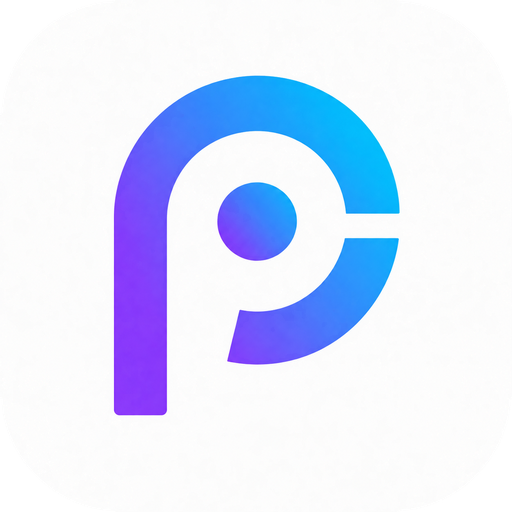
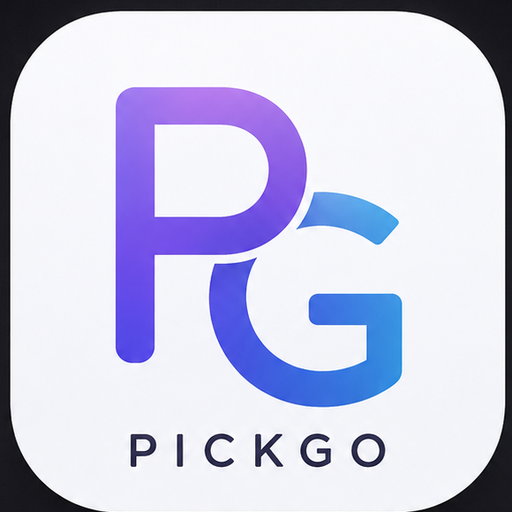
Add files via upload

diff --git a/index.html b/index.html
@@ -12,7 +12,7 @@
 <body>
   <header class="topbar">
     <a class="brand" href="#top" aria-label="PCY Studio 홈">
-      <span class="brand-mark" aria-hidden="true">P</span>
+      <img class="brand-logo-img" src="assets/pcy-studio-icon.png" alt="" aria-hidden="true">
       <span>PCY Studio</span>
     </a>
 
@@ -215,28 +215,28 @@
       <div class="app-grid">
         <article class="app-card pickgo">
           <span class="app-badge">FEATURED</span>
-          <div class="app-icon icon-pickgo">P</div>
+          <div class="app-icon app-icon-real"><img src="assets/pickgo-icon.png" alt="PickGo 앱 아이콘"></div>
           <h3>PickGo</h3>
           <p>링크 저장 · 이미지 저장 · 랜덤 PICK · 미니게임</p>
           <a href="https://play.google.com/store/search?q=PickGo&c=apps" target="_blank" rel="noopener">Google Play →</a>
         </article>
 
         <article class="app-card">
-          <div class="app-icon icon-field">F</div>
+          <div class="app-icon app-icon-real"><img src="assets/fieldlog-icon.png" alt="FieldLog 앱 아이콘"></div>
           <h3>FieldLog</h3>
           <p>현장 · 정비 · 장애 · 사진 · 작업자 기록 관리</p>
           <a href="https://play.google.com/store/apps/details?id=com.cyfieldlog.app" target="_blank" rel="noopener">Google Play →</a>
         </article>
 
         <article class="app-card">
-          <div class="app-icon icon-baby">B</div>
+          <div class="app-icon app-icon-real"><img src="assets/babylog-icon.png" alt="BabyLog 앱 아이콘"></div>
           <h3>BabyLog</h3>
           <p>육아 일상과 성장 기록을 가족의 방식대로</p>
           <a href="https://play.google.com/store/search?q=BabyLog&c=apps" target="_blank" rel="noopener">Google Play →</a>
         </article>
 
         <article class="app-card">
-          <div class="app-icon icon-car">C</div>
+          <div class="app-icon app-icon-real"><img src="assets/carlog-icon.png" alt="CarLog 앱 아이콘"></div>
           <h3>CarLog</h3>
           <p>내 차 프로필 · 정비 기록 · 사진 · 주행 정보</p>
           <a href="https://play.google.com/store/apps/details?id=com.cylog.carlog" target="_blank" rel="noopener">Google Play →</a>

diff --git a/styles.css b/styles.css
@@ -45,6 +45,10 @@ button{font:inherit}
   border-color:var(--line);
 }
 .brand{display:flex;align-items:center;gap:11px;font-weight:800;letter-spacing:-.02em}
+.brand-logo-img{
+  width:38px;height:38px;object-fit:cover;border-radius:11px;
+  box-shadow:0 7px 24px rgba(0,0,0,.28);
+}
 .brand-mark{
   width:33px;height:33px;border-radius:11px;
   display:grid;place-items:center;
@@ -319,4 +323,17 @@ footer{
   .phone-frame{width:92%}
   .about-panel{padding:36px 24px;border-radius:30px}
   footer{width:calc(100% - 32px);flex-direction:column}
+}
+
+.app-icon-real{
+  padding:0;
+  overflow:hidden;
+  background:#fff;
+  box-shadow:0 10px 30px rgba(0,0,0,.28);
+}
+.app-icon-real img{
+  width:100%;
+  height:100%;
+  object-fit:cover;
+  display:block;
 }
